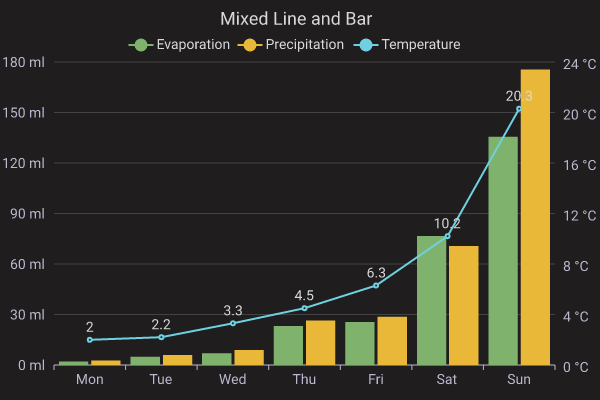
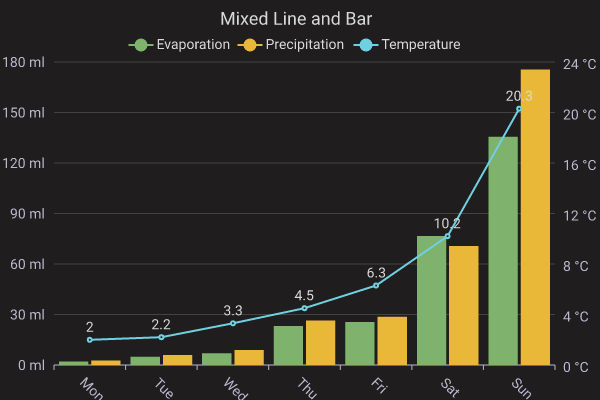
fix: fix axis name rotate, #5

diff --git a/src/charts/component.rs b/src/charts/component.rs
@@ -29,6 +29,8 @@ static ATTR_FONT_SIZE: &str = "font-size";
 static ATTR_FONT_WEIGHT: &str = "font-weight";
 static ATTR_TRANSFORM: &str = "transform";
 static ATTR_DOMINANT_BASELINE: &str = "dominant-baseline";
+static ATTR_TEXT_ANCHOR: &str = "text-anchor";
+static ATTR_ALIGNMENT_BASELINE: &str = "alignment-baseline";
 static ATTR_STROKE_OPACITY: &str = "stroke-opacity";
 static ATTR_FILL_OPACITY: &str = "fill-opacity";
 static ATTR_STROKE_WIDTH: &str = "stroke-width";
@@ -494,6 +496,8 @@ pub struct Text {
     pub font_weight: Option<String>,
     pub transform: Option<String>,
     pub dominant_baseline: Option<String>,
+    pub text_anchor: Option<String>,
+    pub alignment_baseline: Option<String>,
 }
 
 impl Text {
@@ -515,6 +519,14 @@ impl Text {
             (
                 ATTR_DOMINANT_BASELINE,
                 self.dominant_baseline.clone().unwrap_or_default(),
+            ),
+            (
+                ATTR_TEXT_ANCHOR,
+                self.text_anchor.clone().unwrap_or_default(),
+            ),
+            (
+                ATTR_ALIGNMENT_BASELINE,
+                self.alignment_baseline.clone().unwrap_or_default(),
             ),
         ];
         if let Some(ref font_family) = self.font_family {
@@ -1236,7 +1248,7 @@ impl Axis {
             }
         }
         let mut text_data = vec![];
-        let name_rotate = self.name_rotate / std::f32::consts::FRAC_PI_2 * 180.0;
+        let name_rotate = self.name_rotate / std::f32::consts::PI * 180.0;
         if !text_list.is_empty() {
             let name_gap = self.name_gap;
             let f = font::get_font(&self.font_family).context(GetFontSnafu)?;
@@ -1281,11 +1293,21 @@ impl Axis {
                     }
                 };
                 let mut transform = None;
+                let mut x = Some(values.0);
+                let mut y = Some(values.1);
+                let mut text_anchor = None;
                 if name_rotate != 0.0 {
-                    let x = (values.0 + b.width() / 2.0) as i32;
-                    let y = (values.1 - b.height() / 2.0) as i32;
+                    let w = self.name_rotate.sin().abs() * b.width();
+                    let translate_x = (values.0 + b.width() / 2.0) as i32;
+                    let translate_y = (values.1 + w / 2.0) as i32;
+                    text_anchor = Some("middle".to_string());
+
                     let a = name_rotate as i32;
-                    transform = Some(format!("rotate({a},{x},{y})"));
+                    transform = Some(format!(
+                        "translate({translate_x},{translate_y}) rotate({a})"
+                    ));
+                    x = None;
+                    y = None;
                 }
 
                 text_data.push(
@@ -1295,9 +1317,10 @@ impl Axis {
                         font_size: Some(self.font_size),
                         font_color: self.font_color,
                         font_weight: self.font_weight.clone(),
-                        x: Some(values.0),
-                        y: Some(values.1),
+                        x,
+                        y,
                         transform,
+                        text_anchor,
                         ..Default::default()
                     }
                     .svg(),

diff --git a/tests/line_chart.rs b/tests/line_chart.rs
@@ -49,9 +49,10 @@ fn line_chart() {
                 "data": [820.0, 932.0, 901.0, 934.0, 1290.0, 1330.0, 1320.0]
             }
         ],
-        "x_axis_name_rotate": 0.393,
+        "x_axis_name_gap": 0,
+        "x_axis_name_rotate": 0.785,
         "x_axis_data": [
-            "Mon",
+            "Monday",
             "Tue",
             "Wed",
             "Thu",
@@ -62,7 +63,6 @@ fn line_chart() {
     }"###,
     )
     .unwrap();
-
     assert_eq!(
         include_str!("../asset/line_chart/basic_json.svg"),
         line_chart.svg().unwrap()

diff --git a/tests/image.rs b/tests/image.rs
@@ -37,6 +37,7 @@ fn generate_image() {
     bar_chart.series_list[2].category = Some(SeriesCategory::Line);
     bar_chart.series_list[2].y_axis_index = 1;
     bar_chart.series_list[2].label_show = true;
+    bar_chart.x_axis_name_rotate = 0.785;
 
     bar_chart
         .y_axis_configs
